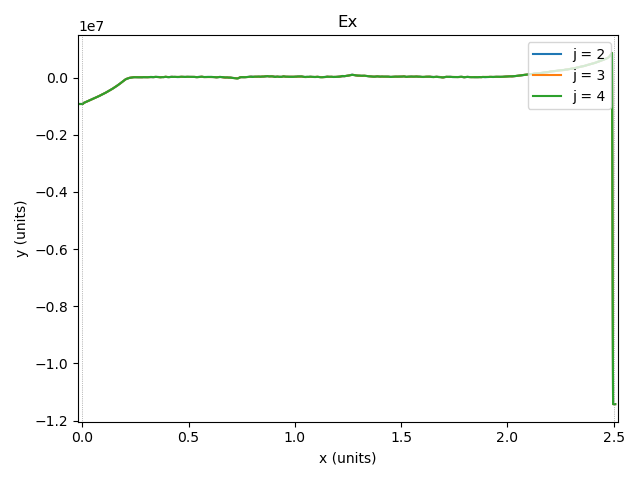
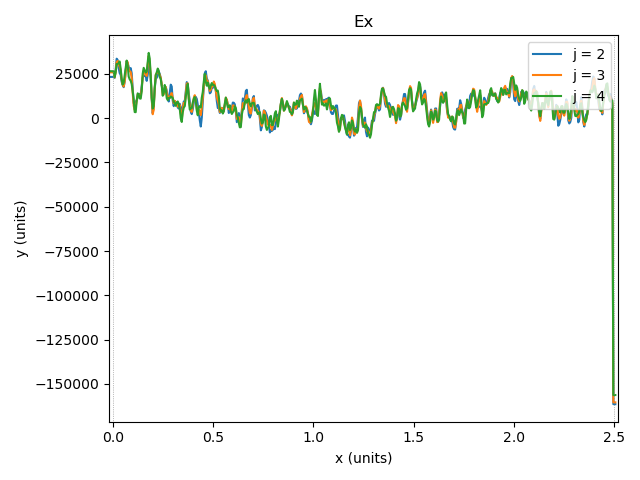
セグフォのデバッグ

diff --git a/src/Particle.mm b/src/Particle.mm
@@ -687,7 +687,7 @@ kernel void integrateChargeDensity(
 - (int)injection:(double)dt withParam:(Init*)initParam withCurrent:(int&)current withLogger:(XmlLogger&)logger{
     // パラメータ取得
     struct ParamForField fieldParam = initParam.paramForField;
-    std::vector<struct SourceForParticle> sources = initParam.particleSources;
+    const std::vector<struct SourceForParticle> sources = initParam.particleSources;
 
     // オブジェクト取得
     SimulationParams *prm = (SimulationParams*)[_paramsBuffer contents];
@@ -750,40 +750,40 @@ kernel void integrateChargeDensity(
             }
             // 粒子の追加
             ParticleState *p = (ParticleState*)[_particleBuffer contents];
-            for (int i = prm->pNum; i < prm->pNum + addn; i++) {
+            for (int idx = prm->pNum; idx < prm->pNum + addn; idx++) {
                 if ([sources[i].genType isEqualToString:@"uniform-Gaussian"] || [sources[i].genType isEqualToString:@"hollow-cathode"]){
                     // uniform distribution for position
-                    p[i].x = Xmin + (float)unif_dist(engine)*Lx;
-                    p[i].y = Ymin + (float)unif_dist(engine)*Ly;
+                    p[idx].x = Xmin + (float)unif_dist(engine)*Lx;
+                    p[idx].y = Ymin + (float)unif_dist(engine)*Ly;
                     // Maxwellian for velocity 
-                    p[i].vx = (float)sources[i].genU[0] + (float)norm_dist(engine);
-                    p[i].vy = (float)sources[i].genU[1] + (float)norm_dist(engine);
-                    p[i].vz = (float)sources[i].genU[2] + (float)norm_dist(engine);
+                    p[idx].vx = (float)sources[i].genU[0] + (float)norm_dist(engine);
+                    p[idx].vy = (float)sources[i].genU[1] + (float)norm_dist(engine);
+                    p[idx].vz = (float)sources[i].genU[2] + (float)norm_dist(engine);
                 } else if ([sources[i].genType isEqualToString:@"Xsinusoidal-Gaussian"]){
                     // uniform distribution for position
-                    p[i].x = (Xmin+Xmax)/2 + Lx/PI*sin(2*unif_dist(engine)-1.0);
-                    p[i].y = Ymin + (float)unif_dist(engine)*Ly;
+                    p[idx].x = (Xmin+Xmax)/2 + Lx/PI*sin(2*unif_dist(engine)-1.0);
+                    p[idx].y = Ymin + (float)unif_dist(engine)*Ly;
                     // Maxwellian for velocity 
-                    p[i].vx = (float)sources[i].genU[0] + (float)norm_dist(engine);
-                    p[i].vy = (float)sources[i].genU[1] + (float)norm_dist(engine);
-                    p[i].vz = (float)sources[i].genU[2] + (float)norm_dist(engine);
+                    p[idx].vx = (float)sources[i].genU[0] + (float)norm_dist(engine);
+                    p[idx].vy = (float)sources[i].genU[1] + (float)norm_dist(engine);
+                    p[idx].vz = (float)sources[i].genU[2] + (float)norm_dist(engine);
                 } else if ([sources[i].genType isEqualToString:@"Ysinusoidal-Gaussian"]){
                     // uniform distribution for position
-                    p[i].x = Xmin + (float)unif_dist(engine)*Lx;
-                    p[i].y = (Ymin+Ymax)/2 + Ly/PI*sin(2*unif_dist(engine)-1.0);
+                    p[idx].x = Xmin + (float)unif_dist(engine)*Lx;
+                    p[idx].y = (Ymin+Ymax)/2 + Ly/PI*sin(2*unif_dist(engine)-1.0);
                     // Maxwellian for velocity 
-                    p[i].vx = (float)sources[i].genU[0] + (float)norm_dist(engine);
-                    p[i].vy = (float)sources[i].genU[1] + (float)norm_dist(engine);
-                    p[i].vz = (float)sources[i].genU[2] + (float)norm_dist(engine);
+                    p[idx].vx = (float)sources[i].genU[0] + (float)norm_dist(engine);
+                    p[idx].vy = (float)sources[i].genU[1] + (float)norm_dist(engine);
+                    p[idx].vz = (float)sources[i].genU[2] + (float)norm_dist(engine);
                 }
                 // shift from real coordinate to integer coodinate
-                p[i].x = p[i].x/fieldParam.dx;
-                p[i].y = p[i].y/fieldParam.dy;
+                p[idx].x = p[idx].x/fieldParam.dx;
+                p[idx].y = p[idx].y/fieldParam.dy;
                 // shift origin for high-order weighting
-                p[i].x = p[i].x + (float)fieldParam.ngb;
-                p[i].y = p[i].y + (float)fieldParam.ngb;
+                p[idx].x = p[idx].x + (float)fieldParam.ngb;
+                p[idx].y = p[idx].y + (float)fieldParam.ngb;
                 // deletion flag
-                p[i].piflag = 0;
+                p[idx].piflag = 0;
             }
             // 粒子数更新
             prm->pNum += addn;

diff --git a/src/Init.mm b/src/Init.mm
@@ -226,7 +226,7 @@
             if([mergedD[@"SrcSetMethod"] isEqualToString:@"Source[1/cm/s]"]){
                 src.src = [mergedD[@"SrcValue"] doubleValue];
             }else if([mergedD[@"SrcSetMethod"] isEqualToString:@"CurrentDensity[A/m2]"]){
-                src.src = [mergedD[@"SrcValue"] doubleValue]*JtosJ*_field.ngy*_field.dy/ec;
+                src.src = [mergedD[@"SrcValue"] doubleValue]*JtosJ*_field.ngy*_field.dy/ec; // 単一電荷を仮定しているので注意
             }else if([src.genType isEqualToString:@"hollow-cathode"]){
                 src.src = 0;
             }else{

diff --git a/src/EMField.mm b/src/EMField.mm
@@ -509,7 +509,7 @@ typedef amgcl::make_solver<
         {"meanCathode", fmtSci(mean*sVtoV, 6)},
     };
     logger.logSection("solvePoisson", data);
-    NSLog(@"mean = %e",mean*sVtoV);
+    // NSLog(@"mean = %e",mean*sVtoV);
 
     // index
     bool isLeft, isRight, isBottom, isTop;

diff --git a/tools/field.py b/tools/field.py
@@ -96,7 +96,7 @@ def plotField1dx(field, title, figname, type_id, j):
 
 if __name__ == '__main__':
 
-    cycle = 20000
+    cycle = 1
     filename = f"bin/field_{cycle:08}.bin"
 
     with open(filename, 'rb') as f:
